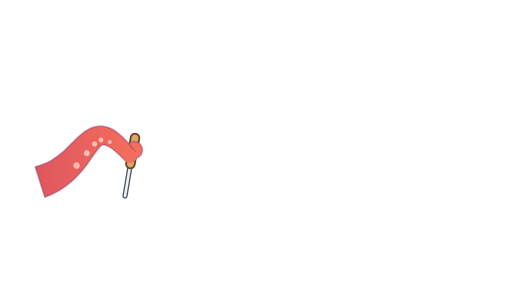
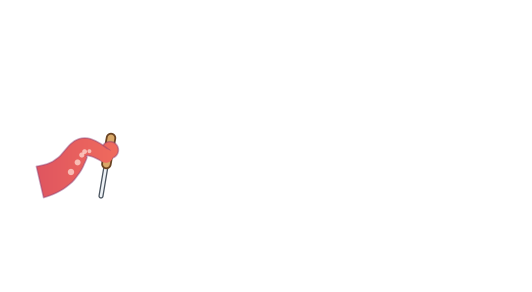
fix(octopilot): polish the kitchen mod after review
A transient mood shows while paused and the flames keep a pilot simmer; the
pick lands on any hole of any pan and the arm stays under the shelf's boats;
no speech scan while folded, no wake re-arm on a fixture's frozen clock.

Changed region(s): [[0.0902, 0.4315, 0.2707, 0.6781], [0.0602, 0.6473, 0.1203, 0.6781], [0.0602, 0.5548, 0.0902, 0.6164]]

diff --git a/ai/octopilot/herdr-app/mods/octopilot-kitchen/main.js b/ai/octopilot/herdr-app/mods/octopilot-kitchen/main.js
@@ -1,7 +1,6 @@
 // The takoyaki kitchen as a floating block: the octopus chef behind the pan, one ball per
 // tracked item, flames, the shelf of served boats, and a speech bubble with the orchestrator's
-// last message and the kitchen log. Props: { dir?, state_dir?, folded?, fixture?, fixture_speech?, fixture_now? }.
-// For the full-text dialog: { full: true, text, status, overlay }.
+// last message and the kitchen log. Props: see README.md.
 
 import { View, div, image, svg } from "gpui-kit";
 import { v_flex, h_flex, TextView } from "gpui-base";
@@ -95,7 +94,8 @@ export default class Kitchen extends View {
   poll(cx) {
     cx.spawn(async (cx) => {
       for (;;) {
-        await Promise.all([this.loadView(), this.loadSpeech()]);
+        // Folded, the bubble is gone: no need to ask for the speech.
+        await Promise.all([this.loadView(), this.folded ? null : this.loadSpeech()]);
         this.refresh(cx);
         await cx.sleep(this.shown() ? FAST_MS : SLOW_MS);
       }
@@ -179,6 +179,8 @@ export default class Kitchen extends View {
     const sig = JSON.stringify([this.model, s?.seq, s?.status, s?.text, s?.terminal, this.error]);
     if (sig !== this.sig) cx.notify();
     this.sig = sig;
+    // A fixture's clock stands still, so nothing on show ever ends.
+    if (props()?.fixture) return;
     const wake = ++this.wake;
     const wait = this.model.until == null ? 0 : this.model.until - this.now();
     if (wait <= 0) return;
@@ -208,6 +210,11 @@ export default class Kitchen extends View {
     this.folded = !this.folded;
     try { localStorage.setItem(FOLD_KEY, this.folded ? "1" : "0"); } catch (_e) { /* not kept, that's all */ }
     cx.notify();
+    if (this.folded) return;
+    cx.spawn(async (cx) => {
+      await this.loadSpeech();
+      this.refresh(cx);
+    });
   }
 
   chef(m) {
@@ -223,7 +230,8 @@ export default class Kitchen extends View {
   }
 
   arm(m) {
-    const [x, y, w, h] = BOX.arm;
+    const [left, y, w, h] = BOX.arm;
+    const x = left + m.armShift;
     const working = m.arm.startsWith("arm-point") || m.arm.startsWith("arm-pour");
     const inner = image(art(m.arm)).w(w).h(h);
     // The pick dips into the ball while he works it.
@@ -323,7 +331,8 @@ export default class Kitchen extends View {
         ? div().absolute().left(0).w(SCENE.w).top(SCENE.h / 2 - 12).flex().justify_center().child(this.chip("kitchen offline"))
         : null,
       // Click the chef to look into the orchestrator's terminal.
-      layer([BOX.chef[0] + 14, BOX.chef[1] + 8, 112, 124]).id("chef").cursor_pointer().on_click(() => this.peek()),
+      layer([BOX.chef[0] + 14, BOX.chef[1] + 8, 112, 124]).id("chef").cursor_pointer()
+        .on_mouse_down("left", (_e, cx) => cx.stop_propagation()).on_click(() => this.peek()),
       div().id("fold").absolute().left(SCENE.w - 26).top(SCENE.h - 22).w(20).h(16).rounded(8).bg(INK.chip)
         .flex().items_center().justify_center().text_size(11).text_color(INK.text).cursor_pointer()
         .hover((s) => s.bg(INK.hover))
@@ -345,7 +354,8 @@ export default class Kitchen extends View {
     if (this.error) return muted(`Can't reach the orchestrator: ${this.error}`);
     if (!s) return muted("Waiting for the orchestrator…");
     if (!s.text) return muted(s.status === "offline" ? "The orchestrator is offline." : "The orchestrator hasn't said anything yet.");
-    return div().id("speech").text_size(13).text_color(t.foreground).cursor_pointer().on_click(() => this.openFull())
+    return div().id("speech").text_size(13).text_color(t.foreground).cursor_pointer()
+      .on_mouse_down("left", (_e, cx) => cx.stop_propagation()).on_click(() => this.openFull())
       .child(TextView.markdown("octopilot-speech", clip(s.text)).raw_html(false));
   }
 

diff --git a/ai/octopilot/herdr-app/mods/octopilot-kitchen/kitchen.js b/ai/octopilot/herdr-app/mods/octopilot-kitchen/kitchen.js
@@ -71,13 +71,19 @@ export function focusIndex(balls, walking, walk = 0) {
   return flagged < 0 ? 0 : flagged;
 }
 
+// The drawn arm pose nearest to hole `focus`, and how far (px) to slide it to land on the hole.
+export function armReach(focus, holes) {
+  const { x } = holeAt(focus, holes);
+  const pitch = PAN.w / ARM_POSES;
+  const pose = clamp(Math.round((x - PAN.x) / pitch - 0.5), 0, ARM_POSES - 1);
+  return { pose, shift: x - (PAN.x + pitch * (pose + 0.5)) };
+}
+
 // The arm piece for a mood: the pick (or the batter jug) over the focused hole, or a pose of its own.
 export function armPiece(mood, focus, holes) {
   const fixed = focus < 0 ? ARM[mood] ?? "rest" : ARM[mood];
   if (fixed) return `arm-${fixed}-${FLUSHED.includes(mood) && fixed !== "cheer" ? "f" : "w"}`;
-  const { x } = holeAt(focus, holes);
-  const pose = clamp(Math.round(((x - PAN.x) / PAN.w) * ARM_POSES - 0.5), 0, ARM_POSES - 1);
-  return `arm-${mood === "pour" ? "pour" : "point"}-${pose}`;
+  return `arm-${mood === "pour" ? "pour" : "point"}-${armReach(focus, holes).pose}`;
 }
 
 export function newest(kitchen) {
@@ -135,14 +141,15 @@ export function derive(view, nowMs, walk = 0) {
   // Without `pan` (an older backend) the newest event stands in for the chef.
   const chef = pan?.chef ?? (last ? { mood: last.mood, since: last.at, ms: last.ms, resting: "idle" } : null);
 
+  // An event's mood shows even while paused; `pan` already rests in sleep then.
   let mood = chefMood(chef, nowMs);
-  if (paused) mood = "sleep";
+  if (paused && !pan && mood === "idle") mood = "sleep";
   if (offline) mood = "doze";
   const busy = pan?.busy === true && !paused && !offline;
   const focus = focusIndex(balls, busy && mood === "busy", walk);
 
   let burst = null;
-  let until = offline || paused ? null : moodEnd(chef, nowMs);
+  let until = offline ? null : moodEnd(chef, nowMs);
   if (!offline && last && BURSTS.includes(last.burst)) {
     const end = last.at * 1000 + burstMs(last);
     if (end > nowMs) {
@@ -161,7 +168,9 @@ export function derive(view, nowMs, walk = 0) {
     flushed: FLUSHED.includes(mood),
     blinks: BLINKS.includes(mood) && !offline,
     arm: armPiece(mood, focus, holes),
-    flames: offline || paused ? "none" : busy ? "big" : "pilot",
+    armShift: armPiece(mood, focus, holes).match(/point|pour/) ? armReach(focus, holes).shift : 0,
+    // Never out while the kitchen is open: a pilot simmer, roaring while the orchestrator works.
+    flames: offline ? "none" : busy ? "big" : "pilot",
     balls: balls.map((b, i) => ({ sprite: ballSprite(b), state: b.state, label: b.label ?? b.key ?? "", focus: i === focus })),
     focus,
     boats: shelf.length,

diff --git a/ai/octopilot/herdr-app/mods/octopilot-kitchen/atlas.js b/ai/octopilot/herdr-app/mods/octopilot-kitchen/atlas.js
@@ -2,13 +2,13 @@
 export const SCENE = { w: 360, h: 220 };
 export const PAN = { x: 134, w: 216, ballY: 138 };
 export const SPRITE = { w: 40, h: 48, cx: 20, cy: 26 };
-export const SHELF = { x: 184, rows: [98, 58], pitch: 42, perRow: 4, boat: { w: 38, h: 26, dy: -25 } };
-export const ARM_POSES = 6;
+export const SHELF = { x: 184, rows: [92, 54], pitch: 42, perRow: 4, boat: { w: 38, h: 26, dy: -25 } };
+export const ARM_POSES = 18;
 export const COOK_STEPS = 5;
 // [left, top, width, height] in scene px.
 export const BOX = {
   bg: [0, 0, 360, 220],
-  shelf: [176, 56, 182, 60],
+  shelf: [176, 52, 182, 58],
   counter: [0, 146, 360, 74],
   pan: [120, 124, 244, 76],
   flame: [126, 160, 232, 40],

diff --git a/ai/octopilot/herdr-app/mods/octopilot-kitchen/art/make.py b/ai/octopilot/herdr-app/mods/octopilot-kitchen/art/make.py
@@ -2,8 +2,8 @@
 """Draws the takoyaki kitchen as layered SVG pieces and renders them to PNG at 2x.
 
 `python3 make.py` rewrites art/svg/*.svg, art/png/*.png and ../atlas.js (where each
-piece sits in the scene, for main.js). `--preview [mood]` also writes
-art/svg/preview.png, the whole scene composed, to judge the art without the app.
+piece sits in the scene, for main.js). `--preview [mood...]` instead writes
+art/svg/preview-<mood>.png, the whole scene composed, to judge the art without the app.
 Everything is drawn in scene coordinates (360x220); a piece's file is a crop of it.
 """
 
@@ -22,9 +22,10 @@ PAN_X, PAN_W, PAN_TOP, PAN_FACE, PAN_RIM = 134, 216, 126, 34, 8
 BALL_Y, BALL_R = 138, 13
 # A ball sprite's canvas, and the ball's centre in it (room above for the flag).
 SPRITE_W, SPRITE_H, SPRITE_CX, SPRITE_CY = 40, 48, 20, 26
-ARM_POSES = 6
+# Arm poses are closer together than the holes, so the pick lands near any hole of any pan.
+ARM_POSES = 18
 COUNTER_Y = 152
-SHELF_X, SHELF_ROWS, SHELF_PITCH, SHELF_PER_ROW = 184, (58, 98), 42, 4
+SHELF_X, SHELF_ROWS, SHELF_PITCH, SHELF_PER_ROW = 184, (54, 92), 42, 4
 BOAT_W, BOAT_H = 38, 24
 
 WARM = dict(hi="#ffcdb8", base="#f4705c", mid="#dc5160", shade="#8a3a70", ink="#3b2145",
@@ -717,6 +718,11 @@ def pose_x(k):
     return PAN_X + PAN_W * (k + .5) / ARM_POSES
 
 
+def reach(hx):
+    """How far along the pan the arm stretches, 0 at its near end to 5 at the far one."""
+    return (hx - PAN_X) / PAN_W * 6 - .5
+
+
 def pick(x0, y0, x1, y1):
     """The takoyaki pick: a wooden handle from (x0, y0) and a steel needle to (x1, y1)."""
     mx, my = x0 + (x1 - x0) * .45, y0 + (y1 - y0) * .45
@@ -742,16 +748,19 @@ def arm(kind, k=0, tag="w"):
     suck = (10, 15, 20, 25, 30)
     if kind == "point":
         hx = pose_x(k)
+        k = reach(hx)
         tip = (hx + 3, 108)
-        c1 = (s[0] + 26 + k * 6, s[1] - 8 - k * 7)
-        c2 = (tip[0] - 22 - k * 6, tip[1] - 26 - k * 3)
+        # A low arc, to stay under the shelf's boats.
+        c1 = (s[0] + 26 + k * 6, s[1] - 6 - k * 2)
+        c2 = (tip[0] - 22 - k * 6, tip[1] - 14 - k)
         body = tentacle(s, c1, c2, tip, 8, 3.4, fill, p, suck)
         return pick(hx + 5.5, 99, hx + .5, BALL_Y - BALL_R + 3) + body_curl(tip, p, fill) + body
     if kind == "pour":
         hx = pose_x(k)
+        k = reach(hx)
         tip = (hx - 13, 103)
-        c1 = (s[0] + 24 + k * 6, s[1] - 10 - k * 7)
-        c2 = (tip[0] - 20 - k * 6, tip[1] - 24 - k * 3)
+        c1 = (s[0] + 24 + k * 6, s[1] - 8 - k * 2)
+        c2 = (tip[0] - 20 - k * 6, tip[1] - 12 - k)
         stream = (f'<path d="M{f1(hx + 1.5)} 109 Q{f1(hx + 3)} 120 {f1(hx + .5)} {BALL_Y - 2}" fill="none" stroke="#d9bf74" stroke-width="4.4" stroke-linecap="round"/>'
                   f'<path d="M{f1(hx + 1.5)} 109 Q{f1(hx + 3)} 120 {f1(hx + .5)} {BALL_Y - 2}" fill="none" stroke="#fbeeb4" stroke-width="3" stroke-linecap="round"/>')
         return stream + jug(hx - 6, 100) + tentacle(s, c1, c2, tip, 8, 3.6, fill, p, suck)
@@ -873,7 +882,7 @@ def preview(all_pieces, mood):
         if s:
             parts.append(ball(s, i))
     arm_name = {"sleep": "arm-down-w", "doze": "arm-down-w", "sad": "arm-down-f", "happy": "arm-cheer-w", "serve": "arm-cheer-w",
-                "surprised": "arm-rest-w", "idle": "arm-rest-w", "worried": "arm-rest-f", "pour": "arm-pour-4"}.get(mood, "arm-point-2")
+                "surprised": "arm-rest-w", "idle": "arm-rest-w", "worried": "arm-rest-f", "pour": "arm-pour-13"}.get(mood, "arm-point-16")
     parts.append(at(arm_name))
     parts.append(at("steam", PAN_X + PAN_W * 1.5 / 6 - 12, 92))
     parts.append(at("smoke", PAN_X + PAN_W * (5.5 if states[5] else 4.5) / 6 - 20, 84))

diff --git a/ai/octopilot/herdr-app/mods/octopilot-kitchen/README.md b/ai/octopilot/herdr-app/mods/octopilot-kitchen/README.md
@@ -29,7 +29,8 @@ Props, all optional: `dir` (the octopilot code, default `~/.dotfiles/ai/octopilo
   balls, shelf, the chef's mood, `busy`, `paused`), `kitchen` (the log, and the newest
   event's burst) and `header`. A `generated_at` older than 15 s is an offline kitchen:
   dimmed, flames out, the chef dozing.
-- `$DIR/scan.sh speech --json` for the bubble's message, status and terminal, run through
+- `$DIR/scan.sh speech --json` for the bubble's message, status and terminal (not while
+  folded), run through
   `env` with `OCTOPILOT_BACKEND=hc`, `OCTOPILOT_DIR` and, when a state folder was set,
   `OCTOPILOT_STATE_DIR`.
 
@@ -43,8 +44,9 @@ Props, all optional: `dir` (the octopilot code, default `~/.dotfiles/ai/octopilo
 | `stalled` | cold and frosted, no steam |
 
 The focused ball has a ring and the chef's pick over it (the batter jug while he pours);
-while the orchestrator is busy the pick walks along the pan. Flames roar while `busy`,
-drop to a pilot light when idle, and go out when paused. Chef moods: `idle`, `busy`,
+while the orchestrator is busy the pick walks along the pan. Flames roar while `busy`
+and drop to a pilot light otherwise, paused too; they only go out when offline. Paused,
+the chef sleeps, but an event's mood still shows for its time. Chef moods: `idle`, `busy`,
 `flip`, `pour`, `happy`, `serve`, `worried`, `sad`, `surprised`, `sleep`, `doze`.
 
 ## The art
